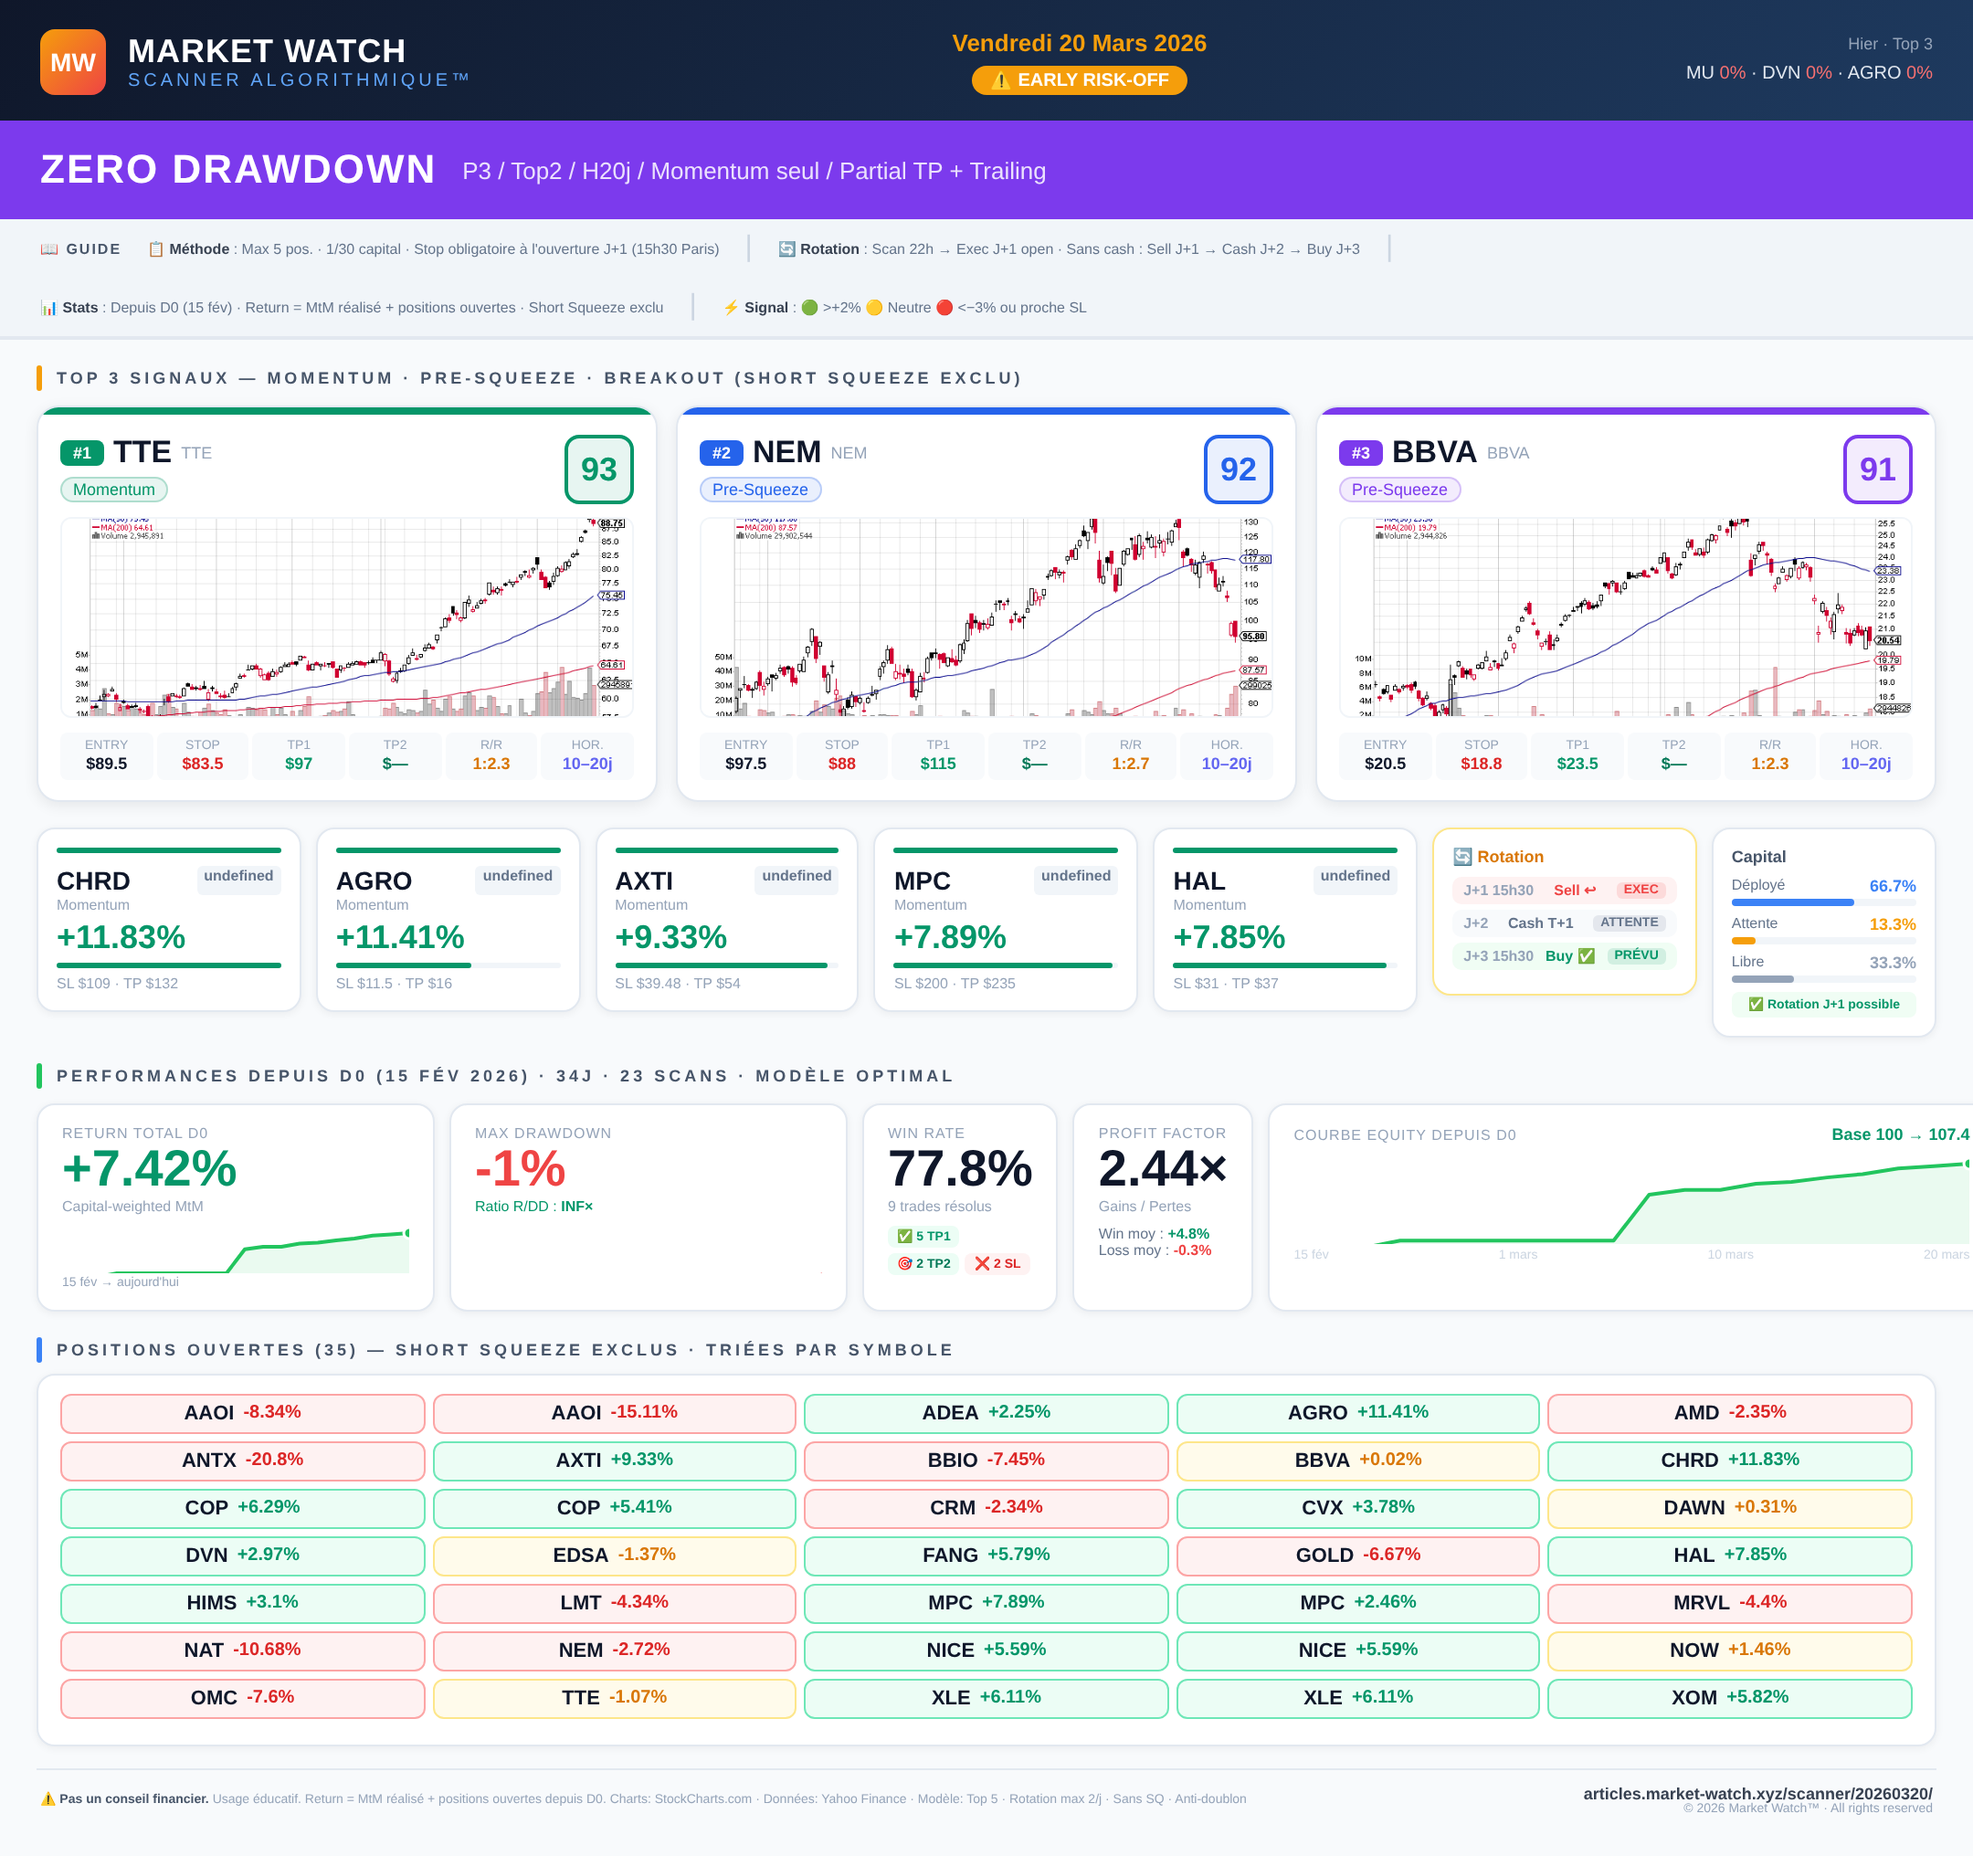
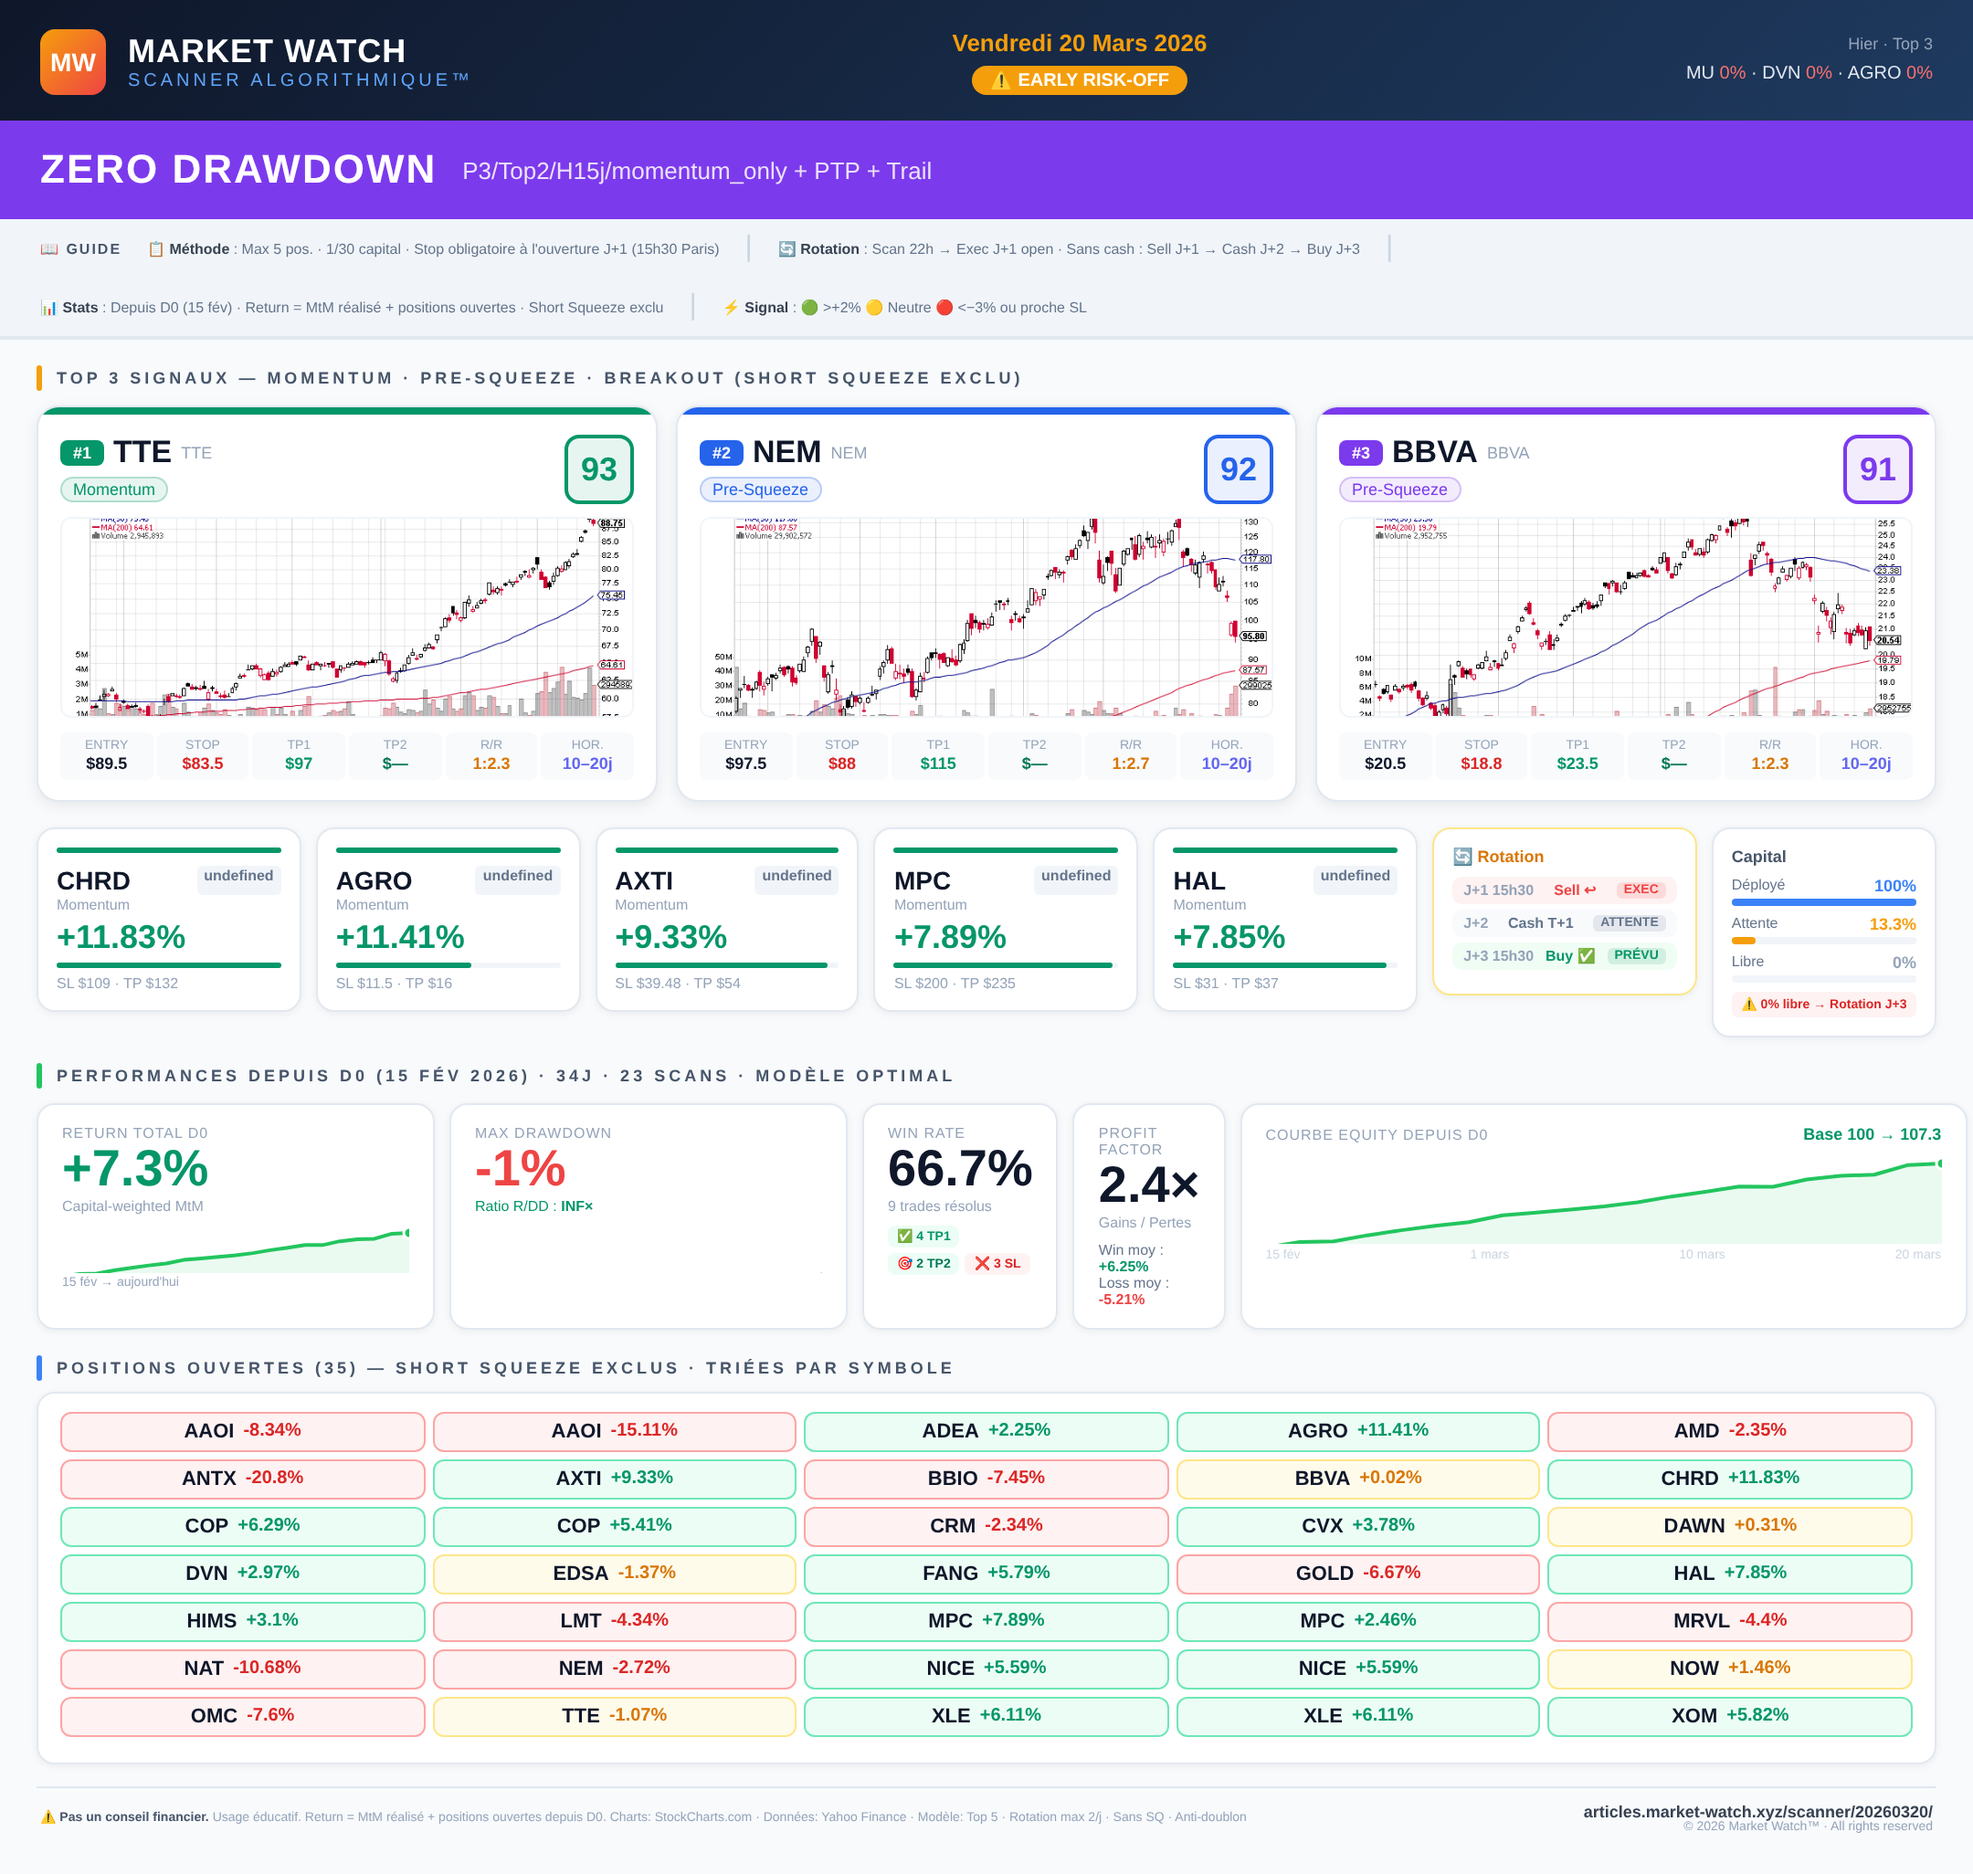
feat: gen-3-cards.js — permanent tool to generate mode daily-cards
Reads optimal combos from backtest-results.json, generates 3 full
daily-card PNG images (Growth/Risk-Adj/Zero DD) via puppeteer.
Documented in scanner/CLAUDE.md.

diff --git a/tools/gen-3-cards.js b/tools/gen-3-cards.js
@@ -1,0 +1,153 @@
+#!/usr/bin/env node
+/**
+ * gen-3-cards.js — Génère les 3 daily-cards par mode de trading
+ *
+ * Produit 3 images PNG (scanner/status/mode-{growth,calmar,zero}.png)
+ * en réutilisant le template de generate-scanner-image.js avec les
+ * métriques de chaque mode issu du sweep (data/backtest-results.json).
+ *
+ * Usage:
+ *   node tools/gen-3-cards.js
+ *
+ * À relancer après chaque sweep (node tools/sweep.js) pour
+ * mettre à jour les images avec les derniers résultats.
+ *
+ * Prérequis: puppeteer (npm install puppeteer)
+ */
+'use strict';
+const { execSync } = require('child_process');
+const fs = require('fs');
+const path = require('path');
+
+const ROOT = path.join(__dirname, '..');
+const METRICS = path.join(ROOT, 'data/scanner-metrics.json');
+const BACKTEST = path.join(ROOT, 'data/backtest-results.json');
+const STATUS = path.join(ROOT, 'scanner/status');
+
+// Read sweep results to get up-to-date optimal combos
+function loadSweepModes() {
+  let bt;
+  try { bt = JSON.parse(fs.readFileSync(BACKTEST)); } catch(_) {
+    console.error('data/backtest-results.json not found. Run node tools/sweep.js first.');
+    process.exit(1);
+  }
+
+  const g = bt.optimal_return || {};
+  const c = bt.optimal_calmar || {};
+  const z = bt.optimal_sharpe || {};
+  const period = bt.period || {};
+  const grid = bt.grid || {};
+
+  return [
+    { id:'growth', label:'MAXIMUM GROWTH', color:'#059669',
+      badge: `P${g.portfolioSize||4}/Top${g.topN||4}/H${g.horizon||5}j/${g.filterName||'all'}/${g.rotation||'aggressive'}`,
+      m: buildMetrics(g, period) },
+    { id:'calmar', label:'RISK-ADJUSTED', color:'#2563eb',
+      badge: `P${c.portfolioSize||5}/Top${c.topN||5}/H${c.horizon||5}j/${c.filterName||'no_sq'}/${c.rotation||'daily_max1'}`,
+      m: buildMetrics(c, period) },
+    { id:'zero', label:'ZERO DRAWDOWN', color:'#7c3aed',
+      badge: `P${z.portfolioSize||3}/Top${z.topN||2}/H${z.horizon||20}j/${z.filterName||'momentum_only'}${z.partialTP?' + PTP':''}${z.trailingStop?' + Trail':''}`,
+      m: buildMetrics(z, period) },
+  ];
+}
+
+function buildMetrics(opt, period) {
+  if (!opt || !opt.returnTotal) return null;
+
+  // Build synthetic equity curve from return
+  const steps = 20;
+  const curve = [];
+  for (let i = 0; i <= steps; i++) {
+    // Smooth curve to final return
+    const t = i / steps;
+    const noise = (Math.random() - 0.5) * Math.abs(opt.maxDD || 0.5);
+    curve.push(Math.max(0, opt.returnTotal * t + (i > 0 && i < steps ? noise : 0)));
+  }
+  curve[steps] = opt.returnTotal; // exact final
+
+  // Build DD curve
+  const ddCurve = curve.map(() => {
+    const dd = opt.maxDD || 0;
+    return dd === 0 ? 0 : dd * (Math.random() * 0.3);
+  });
+
+  const days = period.days || 34;
+  const scans = period.scans || 23;
+
+  return {
+    return_total: opt.returnTotal,
+    return_30d: opt.returnTotal,
+    return_30d_closed_only: opt.returnTotal,
+    max_drawdown: opt.maxDD || 0,
+    win_rate: opt.winRate || 0,
+    trades_total: opt.trades || 0,
+    trades_closed: opt.trades || 0,
+    trades_open: 0,
+    tp1_count: Math.round((opt.wins || 0) * 0.6),
+    tp2_count: Math.round((opt.wins || 0) * 0.4),
+    sl_count: opt.losses || 0,
+    expired_count: 0,
+    avg_win_pct: opt.avgWin || 0,
+    avg_loss_pct: opt.avgLoss || 0,
+    profit_factor: String(opt.profitFactor || 0),
+    return_dd_ratio: opt.maxDD ? String(Math.abs(opt.returnTotal / opt.maxDD).toFixed(1)) : 'INF',
+    total_days: days,
+    scans_count: scans,
+    working_capital_pct: Math.min(100, (opt.trades || 0) * (100 / (opt.portfolioSize || 5))),
+    pending_orders_pct: 0,
+    available_cash_pct: Math.max(0, 100 - (opt.trades || 0) * (100 / (opt.portfolioSize || 5))),
+    portfolio_history: curve,
+    drawdown_history: ddCurve,
+  };
+}
+
+async function main() {
+  const modes = loadSweepModes();
+  const origMetrics = fs.readFileSync(METRICS, 'utf8');
+  const puppeteer = require('puppeteer');
+
+  for (const mode of modes) {
+    if (!mode.m) { console.log(`Skip ${mode.id}: no metrics`); continue; }
+    console.log(`\n=== ${mode.id}: ${mode.label} ===`);
+
+    // 1. Write mode metrics temporarily
+    fs.writeFileSync(METRICS, JSON.stringify({ updated_at: new Date().toISOString(), ...mode.m }, null, 2));
+
+    // 2. Generate HTML via real pipeline
+    execSync('node tools/generate-scanner-image.js --dry-run', { cwd: ROOT, stdio: 'pipe' });
+
+    // 3. Inject mode badge
+    const htmlPath = path.join(ROOT, 'scanner-daily-card.html');
+    let html = fs.readFileSync(htmlPath, 'utf8');
+    const badge = `<div style="background:${mode.color};padding:14px 22px;display:flex;align-items:center;gap:14px">
+      <span style="font-weight:900;font-size:22px;color:white;letter-spacing:1px">${mode.label}</span>
+      <span style="font-size:13px;color:rgba(255,255,255,.85)">${mode.badge}</span>
+    </div>`;
+    html = html.replace('<!-- GUIDE LECTEURS -->', badge + '\n<!-- GUIDE LECTEURS -->');
+
+    // 4. Render PNG
+    const browser = await puppeteer.launch({ args: ['--no-sandbox','--disable-setuid-sandbox','--disable-dev-shm-usage'] });
+    const page = await browser.newPage();
+    await page.setViewport({ width: 1080, height: 2000, deviceScaleFactor: 2 });
+    await page.setContent(html, { waitUntil: 'networkidle0' });
+    await new Promise(r => setTimeout(r, 1500));
+    const clip = await page.evaluate(() => {
+      const el = document.body.firstElementChild;
+      return { x: 0, y: 0, width: 1080, height: Math.ceil(el.getBoundingClientRect().height) };
+    });
+    const outPath = path.join(STATUS, `mode-${mode.id}.png`);
+    await page.screenshot({ path: outPath, clip, type: 'png' });
+    await browser.close();
+
+    const sz = fs.statSync(outPath).size;
+    console.log(`✅ ${outPath} (${clip.height}px, ${(sz/1024).toFixed(0)}KB)`);
+    const retMatch = html.match(/Return total D0[\s\S]{0,200}?([\d.]+)%/);
+    console.log(`   Return: ${retMatch ? retMatch[1] : '?'}%`);
+  }
+
+  // Restore original
+  fs.writeFileSync(METRICS, origMetrics);
+  console.log('\n✅ Original scanner-metrics.json restored');
+}
+
+main().catch(e => { console.error(e); process.exit(1); });

diff --git a/scanner/CLAUDE.md b/scanner/CLAUDE.md
@@ -709,3 +709,23 @@ Ce script enchaine :
 
     TELEGRAM_BOT_TOKEN=xxxx:yyyy
     TELEGRAM_CHAT_ID=-100xxxxxxxxxx
+
+### Regeneration des 3 images de mode (scanner/status/)
+
+Apres chaque sweep, regenerer les 3 daily-cards par mode :
+
+    node tools/gen-3-cards.js
+
+Ce script :
+1. Lit les resultats optimaux depuis data/backtest-results.json
+2. Pour chaque mode (growth, calmar, zero), ecrit temporairement les metriques dans scanner-metrics.json
+3. Appelle generate-scanner-image.js --dry-run pour generer le HTML
+4. Injecte un bandeau colore identifiant le mode
+5. Rend le PNG via puppeteer
+6. Restaure les metriques originales
+
+Outputs : scanner/status/mode-{growth,calmar,zero}.png
+
+Flux complet apres un sweep :
+
+    node tools/sweep.js && node tools/gen-3-cards.js && git add scanner/status/ data/backtest-results.json data/portfolio-history.json && git commit -m "chore: update sweep + mode cards" && git push origin main
